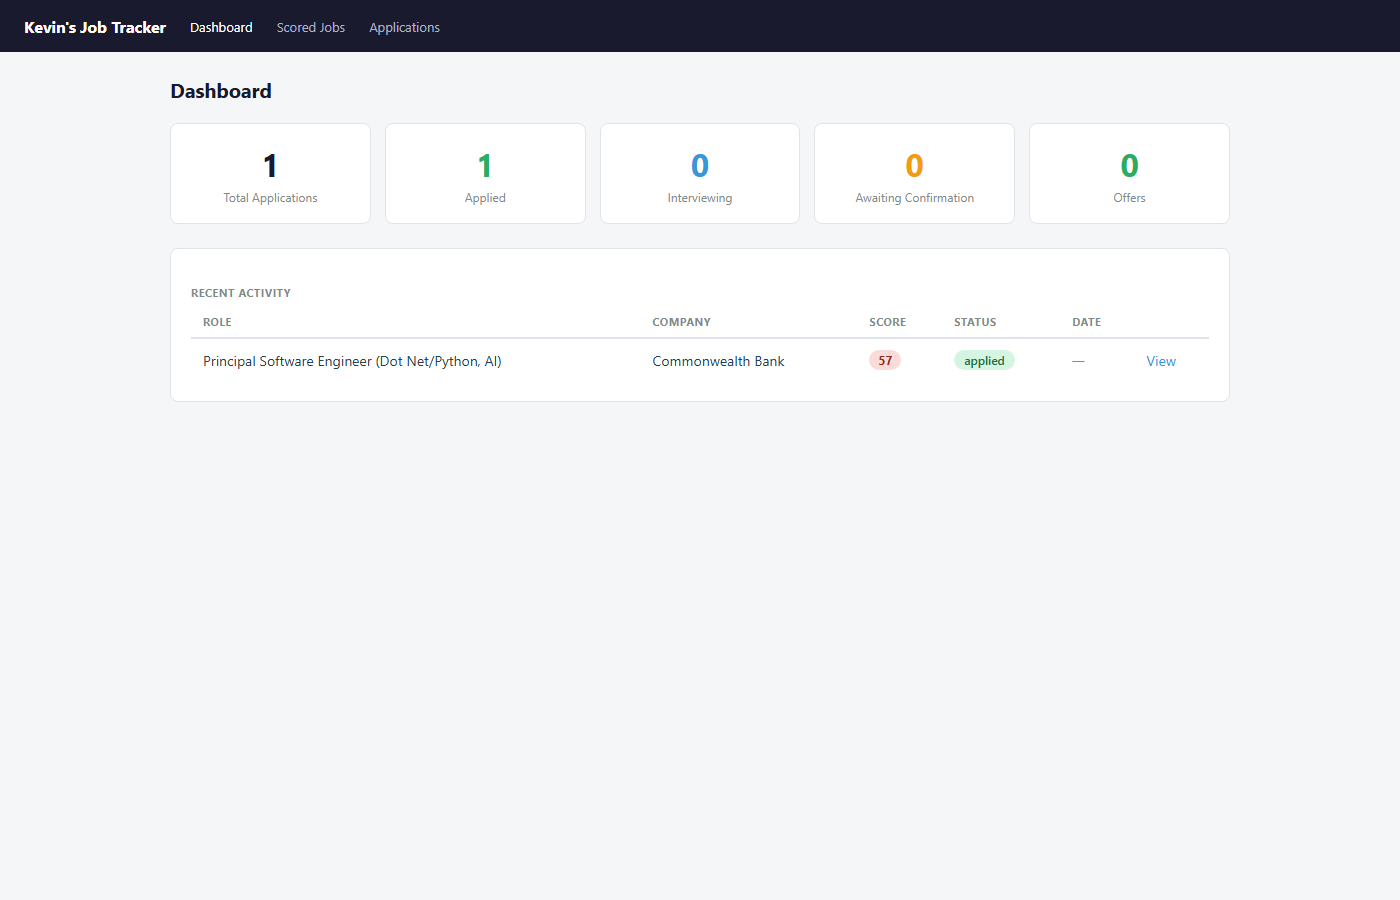
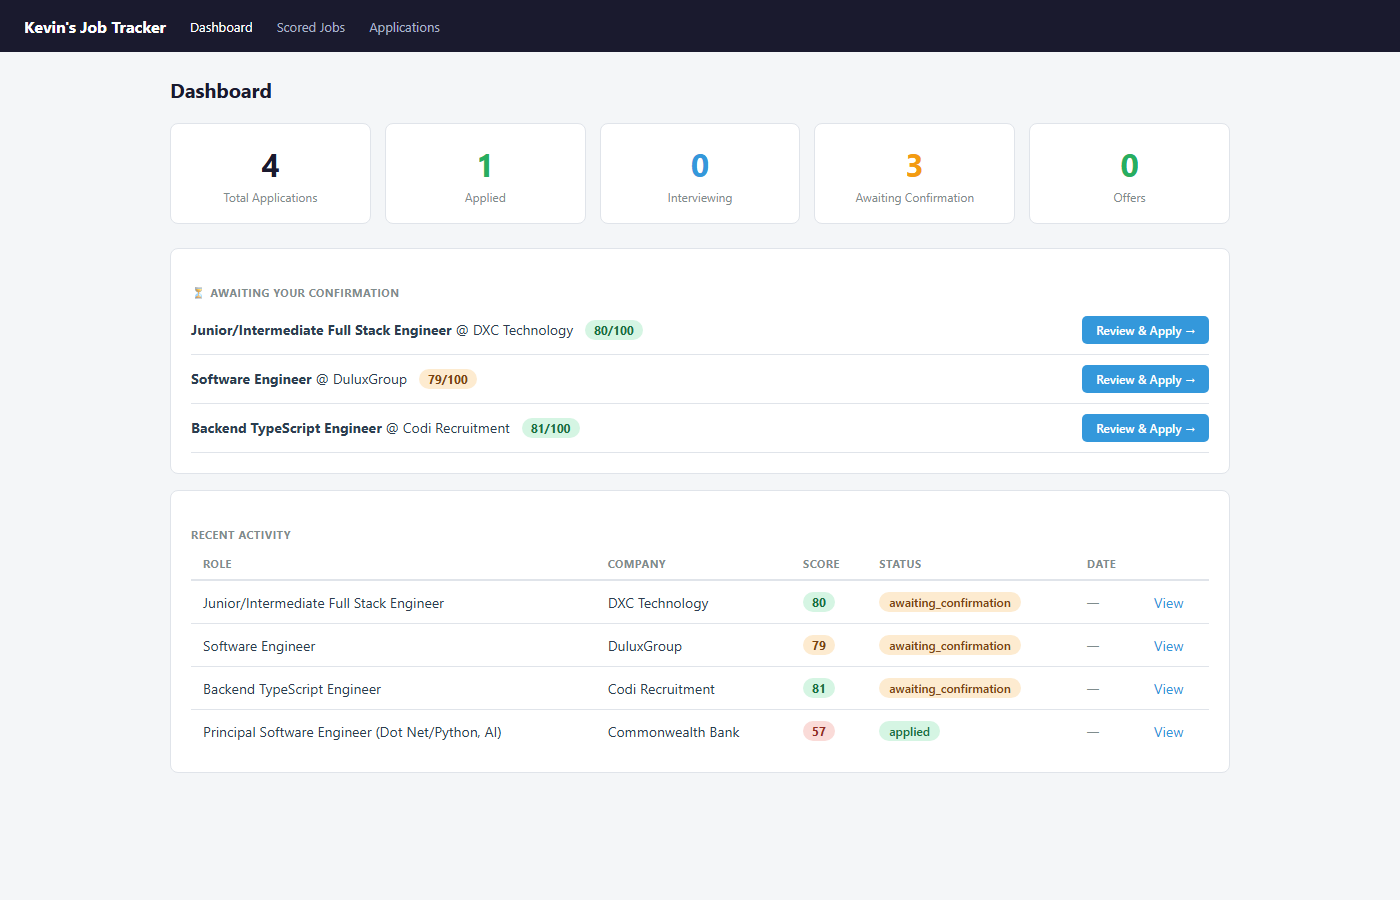
Update dashboard screenshots with live data
Shows real confirmation queue (DXC 80, DuluxGroup 79, Codi 81),
scored jobs page, and daily report. Screenshots taken from live running dashboard.

diff --git a/README.md b/README.md
@@ -44,17 +44,18 @@
 
 ## Screenshots
 
-### Scored Jobs Dashboard
+### Dashboard — Live Overview
+Real application tracking with confirmation queue, scores, and recent activity.
+
+![Dashboard Home](assets/screenshot_dashboard.png)
+
+### Scored Jobs — Browse & Filter by Grade
 
 ![Scored Jobs](assets/screenshot_jobs.png)
 
 ### Daily Apply Report
 
 ![Daily Report](assets/screenshot_report.png)
-
-### Overview
-
-![Dashboard Home](assets/screenshot_dashboard.png)
 
 ---
 
